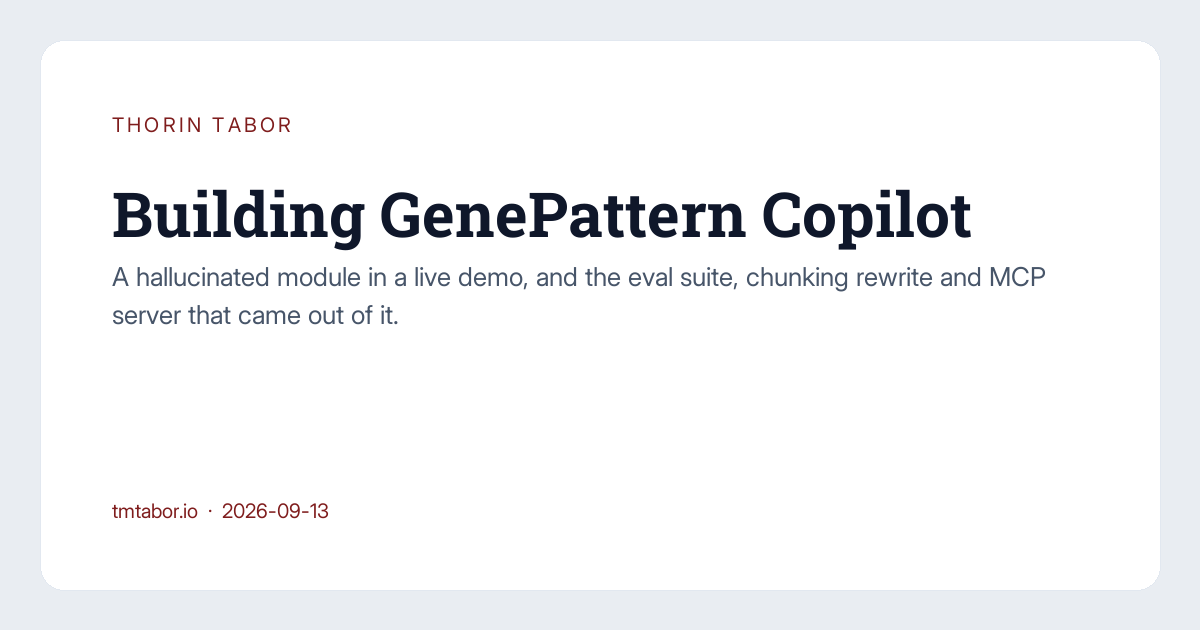
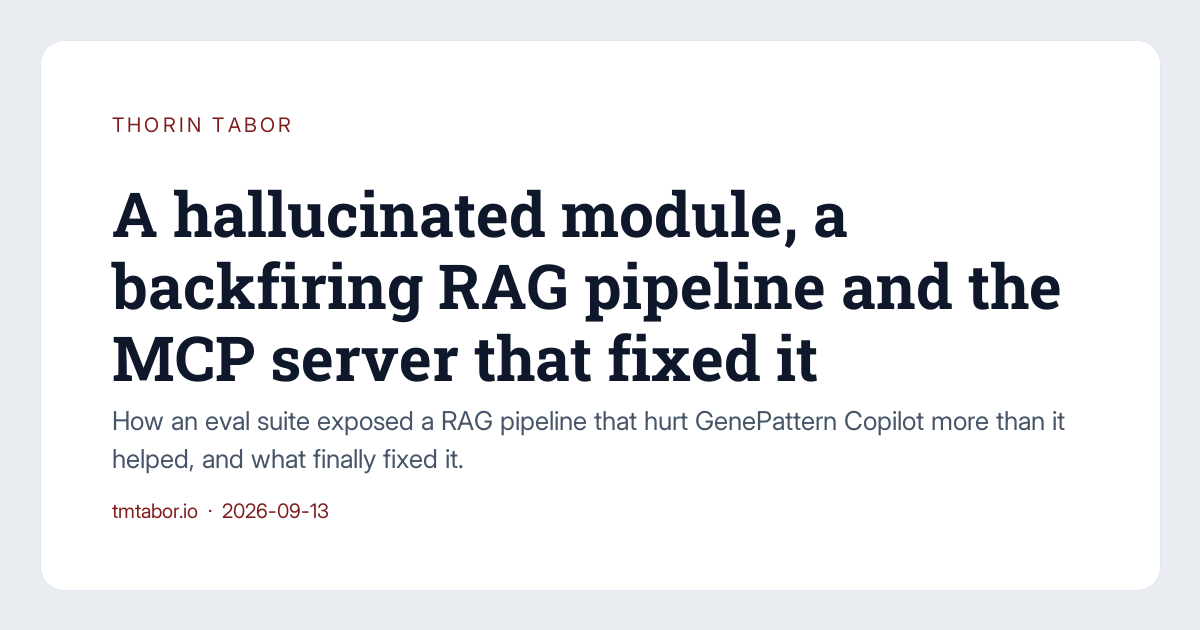
Retitle both posts for readers who don't know the projects
"Building X" names a topic but means nothing to someone who lands on the
post from an aggregator. Both titles now lead with the specifics: the
hallucination, the RAG pipeline that backfired, the MCP server; and the
orchestrator, planner and six specialists. Sentence case and no serial
comma, per AP headline style.

Slugs are set explicitly, so the URLs are unchanged. The Copilot summary
used to echo the title's nouns and now does the grounding the title no
longer does, since it dropped the GenePattern name.

Share images are regenerated. make_og_image.py steps the title down a
size instead of exiting when a headline needs a fourth line at 62px; the
Toolkit title renders at 56px.

Also italicize the student's question, space out Hierarchical Clustering
and link scPerturb on first mention.

Claude-Session: https://claude.ai/code/session_013Gopn42s39ZuKKkM7C75pp

Changed region(s): [[0.0925, 0.3016, 0.8942, 0.6032], [0.0925, 0.6333, 0.8942, 0.754]]

diff --git a/scripts/make_og_image.py b/scripts/make_og_image.py
@@ -89,21 +89,27 @@ def main(post_path):
     d.rounded_rectangle([40, 40, W - 40, H - 40], radius=24, fill=CARD, outline=BORDER, width=1)
 
     f_kicker = load("Inter.ttf", 20, 600)
-    f_title = load("RobotoSlab.ttf", 62, 700)
     f_sum = load("Inter.ttf", 26, 400)
     f_foot = load("Inter.ttf", 20, 500)
     maxw = W - 2 * PAD_X
+
+    # Three lines is all the card has room for above the summary, so a long
+    # headline-style title steps down a size rather than taking a fourth.
+    for size in (62, 56, 50, 46):
+        f_title = load("RobotoSlab.ttf", size, 700)
+        title_lines = wrap(d, title, f_title, maxw)
+        if len(title_lines) <= 3:
+            break
+    else:
+        sys.exit(f"title still wraps to {len(title_lines)} lines at {size}px; shorten it")
 
     y = TOP
     tracked(d, (PAD_X, y), "THORIN TABOR", f_kicker, RED900, 3.2)
     y += 60
 
-    title_lines = wrap(d, title, f_title, maxw)
-    if len(title_lines) > 3:
-        sys.exit(f"title wraps to {len(title_lines)} lines; shorten it or drop the title size")
     for line in title_lines:
         d.text((PAD_X, y), line, font=f_title, fill=SLATE900)
-        y += 72
+        y += round(size * 1.16)
     y += 16
 
     for line in wrap(d, summary, f_sum, maxw)[:3]:

diff --git a/content/articles/2026-09-13-genepattern-copilot.md b/content/articles/2026-09-13-genepattern-copilot.md
@@ -1,9 +1,9 @@
-Title: Building GenePattern Copilot
+Title: A hallucinated module, a backfiring RAG pipeline and the MCP server that fixed it
 Date: 2026-09-13
 Slug: genepattern-copilot
 Tags: genepattern, agentic-ai, rag, mcp, pydantic-ai
 Image: images/og-genepattern-copilot.png
-Summary: A hallucinated module in a live demo, and the eval suite, chunking rewrite and MCP server that came out of it.
+Summary: How an eval suite exposed a RAG pipeline that hurt GenePattern Copilot more than it helped, and what finally fixed it.
 
 It’s a surprisingly humid day for San Diego. We’re running a workshop, teaching [GenePattern](https://www.genepattern.org/) to a dozen medical students, and we’re about to demo something in public for the first time: GenePattern Copilot, our first generative AI offering. Sweat drips. What could go wrong.
 
@@ -13,7 +13,7 @@ It’s a surprisingly humid day for San Diego. We’re running a workshop, teach
   It’s sitting right there on the screen in the list the assistant just generated. And I know it’s a hallucination.
 </blockquote>
 
-One of the students types an innocent question into the chat window: What GenePattern modules are available? The answer comes back, and most of it is exactly what you’d expect: Gene Set Enrichment Analysis, HierarchicalClustering, PCA. The usual suspects. Then he says something nice about the platform. He’s glad to see we offer scPerturb, a toolkit for single-cell perturbation analysis.
+One of the students types an innocent question into the chat window: *What GenePattern modules are available?* The answer comes back, and most of it is exactly what you’d expect: Gene Set Enrichment Analysis, Hierarchical Clustering, PCA. The usual suspects. Then he says something nice about the platform. He’s glad to see we offer [scPerturb](https://projects.sanderlab.org/scperturb/), a toolkit for single-cell perturbation analysis.
 
 I cringe. It’s sitting right there on the screen in the list the assistant just generated. And I know it’s a hallucination.
 

diff --git a/content/articles/2026-07-28-module-toolkit.md b/content/articles/2026-07-28-module-toolkit.md
@@ -1,4 +1,4 @@
-Title: Building the GenePattern Module Toolkit
+Title: Orchestrator, planner, six specialists: a multi-agent pipeline that survived production
 Date: 2026-07-28
 Slug: genepattern-module-toolkit
 Tags: genepattern, agentic-ai, open-source, pydantic-ai
